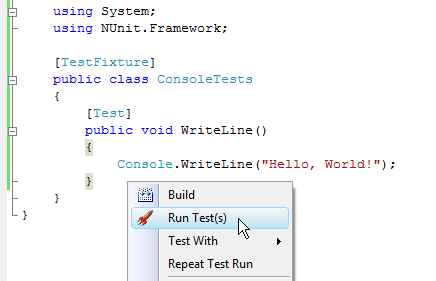
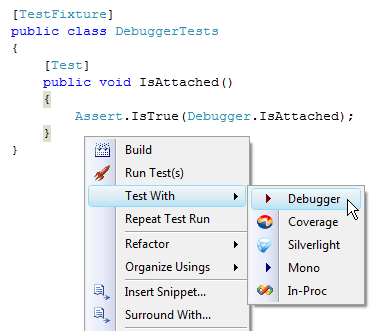
Added Testing .Net Core with TD.Net post

diff --git a/Snow/_posts/2016-07-22-testing-dotnet-core-with-testdriven-net.md b/Snow/_posts/2016-07-22-testing-dotnet-core-with-testdriven-net.md
@@ -1,0 +1,96 @@
+---
+layout: post
+title: Testing .Net Core with TestDriven.Net
+categories: .Net
+date: 2016-07-22 08:00:00
+comments: true
+sharing: true
+footer: true
+permalink: /testing-dotnet-core-with-testdriven-net/
+---
+
+Third party tools vendors are finding it particularly difficult to provide .Net Core support while the tooling is in preview and still subject to a lot of change, but TestDriven.Net is leading the way with a slick Visual Studio testing experience for .Net Core (and earlier versions of .Net).  You simply right click on the solution, project, folder, file, or test, and it will run all of the tests in that scope. TestDriven.Net is actually one of the oldest .Net/Visual Studio test runners and is undergoing something of a reboot with support for .Net Core and the next version of Visual Studio, "15."
+<!--excerpt-->
+
+## TestDriven.Net v4 Alpha
+[Jamie Cansdale](https://twitter.com/jcansdale), the maintainer of the venerable TestDriven.Net, has been hard at work releasing a number of alpha versions through the [testdriven.net website](http://testdriven.net/download.aspx). The releases consist of .zip files that contain a setup.exe executable for installing TestDriven.Net as a Visual Studio add-in. 
+
+You can read the release notes [here](http://testdriven.net/downloads/releasenotes.html).
+
+## Running Tests
+TestDriven.net is extremely flexible and can be run in a number of ways.
+
+### Running Tests from Solution Explorer
+After installing TestDriven.Net, and re-starting Visual Studio, the 'Run Test(s)' command becomes available on the Right-Click context menu in Solution Explorer, and offers a straightforward way to build and run tests. You can right click on the solution, a project (or multiple projects), or a file (or multiple files) and it will run all of the tests in that scope. You have a number of useful testing options, such as testing with the debugger or code coverage.
+
+![VS test runner](/images/test-dotnet-core-tdnet-run.png)
+
+This is intended to be the default method of test execution in most contexts. TestDriven.Net automatically detects the test framework being used and executes tests using the correct test runner. The tests are launched by a test execution engine running as an external process. This test process is kept alive in order to improve execution times on subsequent runs. Once a test process has been cached, a rocket icon will appear in the notify box.
+
+### Running Tests from the Code Editor Window
+If the code editor window is selected, the test(s) to execute will be determined by the position of the caret:
+
+- individual tests are executed by right-clicking anywhere inside a test method and selecting 'Run Test(s)'
+- all tests in a test fixture are executed by right-clicking inside a class (but outside of any method) and selecting 'Run Test(s)'
+- all tests in a namespace are executed by right-clicking inside a namespace and selecting 'Run Test(s)'.
+
+### Test Results
+Once your run the tests, TestDriven.Net will show the results in the "Test" output window.
+
+![VS test runner](/images/test-dotnet-core-tdnet.png)
+
+## Tips and Tricks
+It is important to remember that TestDriven.Net v4 is an alpha, and not everything works quite as well as it will in the final release. This is sometimes down to the vagaries of how Visual Studio works, not to mention the issues that all tools vendors are facing with the moving target of the Visual Studio .Net Core preview tooling. So, hopefully some of these things will improve with time.
+
+### The order of frameworks matter when multi-targeting
+If you are targeting multiple frameworks in your test project and you put the .Net 4x project first, TestDriven.Net won't run your tests. It is important to put the .Net Core framework first in your project.json. For example, here netcoreapp1.0 is listed before net46.
+
+	"frameworks": {
+	    "netcoreapp1.0": {
+	        "dependencies": {
+	            "Microsoft.NETCore.App": {
+	                "type": "platform",
+	                "version": "1.0.0"
+	            },
+	            "System.Linq": "4.1.0"
+	        },
+	        "imports": [
+	            "dnxcore50",
+	            "portable-net45+win8"
+	        ]
+	    },
+	    "net46": {
+	        "dependencies": {
+	        },
+	        "buildOptions": {
+	            "define": [
+	                "Approvals",
+	                "Culture",
+	                "NSubstitute"
+	            ]
+	        }
+	    }
+
+### Runtimes
+I had an issue where some of my tests just weren't working. When I ran them nothing would happen - nothing was displayed in the "Test" output window and the status bar said `0 passed, 0 Failed, 0 Skipped`. It turned out the problem was having a Runtimes node in my test project's project.json.
+
+    "runtimes": {
+        "win10-x64": {}
+    },
+
+This made Visual Studio incorrectly report to TestDriven.Net that my test project's DLL was in the `bin\Debug\netcoreapp1.0\win10-x64` directory, when in fact it was in the `bin\Debug\netcoreapp1.0` directory. Removing the runtimes node solved the problems and enabled TestDriven.Net to run the tests successfully.
+
+### Execute non-test methods
+The .NET Core test runner requires that unit tests be inside a Console Application project, but TestDriven.Net can actually execute any method/property that doesn't have a test attribute as an "Ad hoc" test (even if it's inside a Class Library project). Anything returned from the method/property will be expanded on the output window. 
+
+This feature can make it a really interesting utility for running your own methods. For example, if you wanted to find out more about the properties on a type:
+
+![TestDriven.Net](/images/tdnet-normal-method.png)
+
+## Get Involved
+TestDriven.Net is still in alpha and Jamie Cansdale is actively looking at ways to make it as useful as possible. That means that you have the opportunity to shape its direction by raising issues on the [GitHub issues page](https://github.com/jcansdale/TestDriven.Net-Issues/issues) or [tweeting Jamie](https://twitter.com/jcansdale) with feature requests. Give it a try.
+
+For example, Jamie mentioned to me that he is thinking about how to allow people to swap between the different frameworks. At the moment he is thinking of adding separate `Test With > .NET Core` and `Test With > .NET 4.x` options, but he would appreciate feedback and suggestions about how this might work best.
+
+## Summary
+There are not a lot of .Net Core test runners available at the moment. TestDriven.Net may only be in alpha, but it is already very stable for day-to-day testing of your .Net Core projects and is a slick and flexible way to run your tests in Visual Studio. I recommend [checking it out](http://testdriven.net/download.aspx).

diff --git a/Snow/_posts/2016-07-17-the-state-of-dotnet-core-testing-today.md b/Snow/_posts/2016-07-17-the-state-of-dotnet-core-testing-today.md
@@ -70,14 +70,11 @@ Unfortunately, my favourite test runners, ReSharper and NCrunch, do not have sup
 
 ![VS test runner](/images/test-dotnet-core-tdnet.png)
 
-From the [documentation](http://testdriven.net/quickstart.aspx):
->  After installing TestDriven.Net and re-starting Visual Studio, the 'Run Test(s)' command (available on the Right-Click context menu) offers a straightforward way to build and run tests. It is intended to be the default method of test execution in most contexts. It automatically detects the test framework being used and executes tests using the correct test runner. The tests are launched by a test execution engine running as an external process. This test process is kept alive in order to improve execution times on subsequent runs. Once a test process has been cached, a rocket icon will appear in the notify box.
-> 
-> If the code editor window is selected, the test(s) to execute will be determined by the position of the caret; individual tests are executed by right-clicking anywhere inside a test method and selecting 'Run Test(s)' as shown in Figure 2; all tests in a test fixture are executed by right-clicking inside a class (but outside of any method) and selecting 'Run Test(s)'; all tests in a namespace are executed by right-clicking inside a namespace and selecting 'Run Test(s)'.
-> 
-> The 'Run Test(s)' button is also found on various 'Solution Explorer' context menus. It can be used to execute all tests in a solution, project or project item.
+After installing TestDriven.Net, you can right click on the solution, a project (or multiple projects), or a file (or multiple files) and it will run all of the tests in that scope. TestDriven.Net automatically detects the test framework being used and executes tests using the correct test runner. You have a number of useful testing options, such as testing with the debugger or code coverage.
 
 ![VS test runner](/images/test-dotnet-core-tdnet-run.png)
+
+I've written another post about how to test .Net Core with TestDriven.Net [here](/testing-dotnet-core-with-testdriven-net/).
 
 ### Console Runners
 The various test frameworks implement the [.Net Core test protocol](https://docs.microsoft.com/en-us/dotnet/articles/core/tools/test-protocol) to provide test runners, which allow tests to be run by the Visual Studio test runner or from the command line. 
@@ -168,6 +165,8 @@ As described in the [Project Roadmap](https://github.com/fixie/fixie/wiki), Fixi
 For more detailed progress and discussion on .NET Core, see [Issue #145 - Support .NET Core](https://github.com/fixie/fixie/issues/145).
 
 One of the items on the roadmap is to publish a prerelease NuGet package of 2.x for initial round of feedback but, as far as I can tell, that has not been released yet.
+
+Fixie's creator, [Patrick Lioi](https://twitter.com/plioi), has more details on Fixie 2.0's progress on his [blog](https://lostechies.com/patricklioi/2016/07/22/tiny-steps-creating-fixie-2-0/), including a link to a [video presentation](https://vimeo.com/175828748) he did about it.
 
 ## Mocking Frameworks
 Most of the mocking frameworks depend on Castle.Core, which itself currently has alpha support for .Net Core. Note, that at the time of writing, Castle.Core had a dependency on System.Diagnostics.TraceSource, meaning the mocking frameworks also had this dependency. As Jonathon Rossi says in the comments below, Castle.Core have since released Castle Core 4.0.0-beta001, which removes that dependency, so expect this dependency to drop off the mocking frameworks once they update to the latest Castle.Core.
